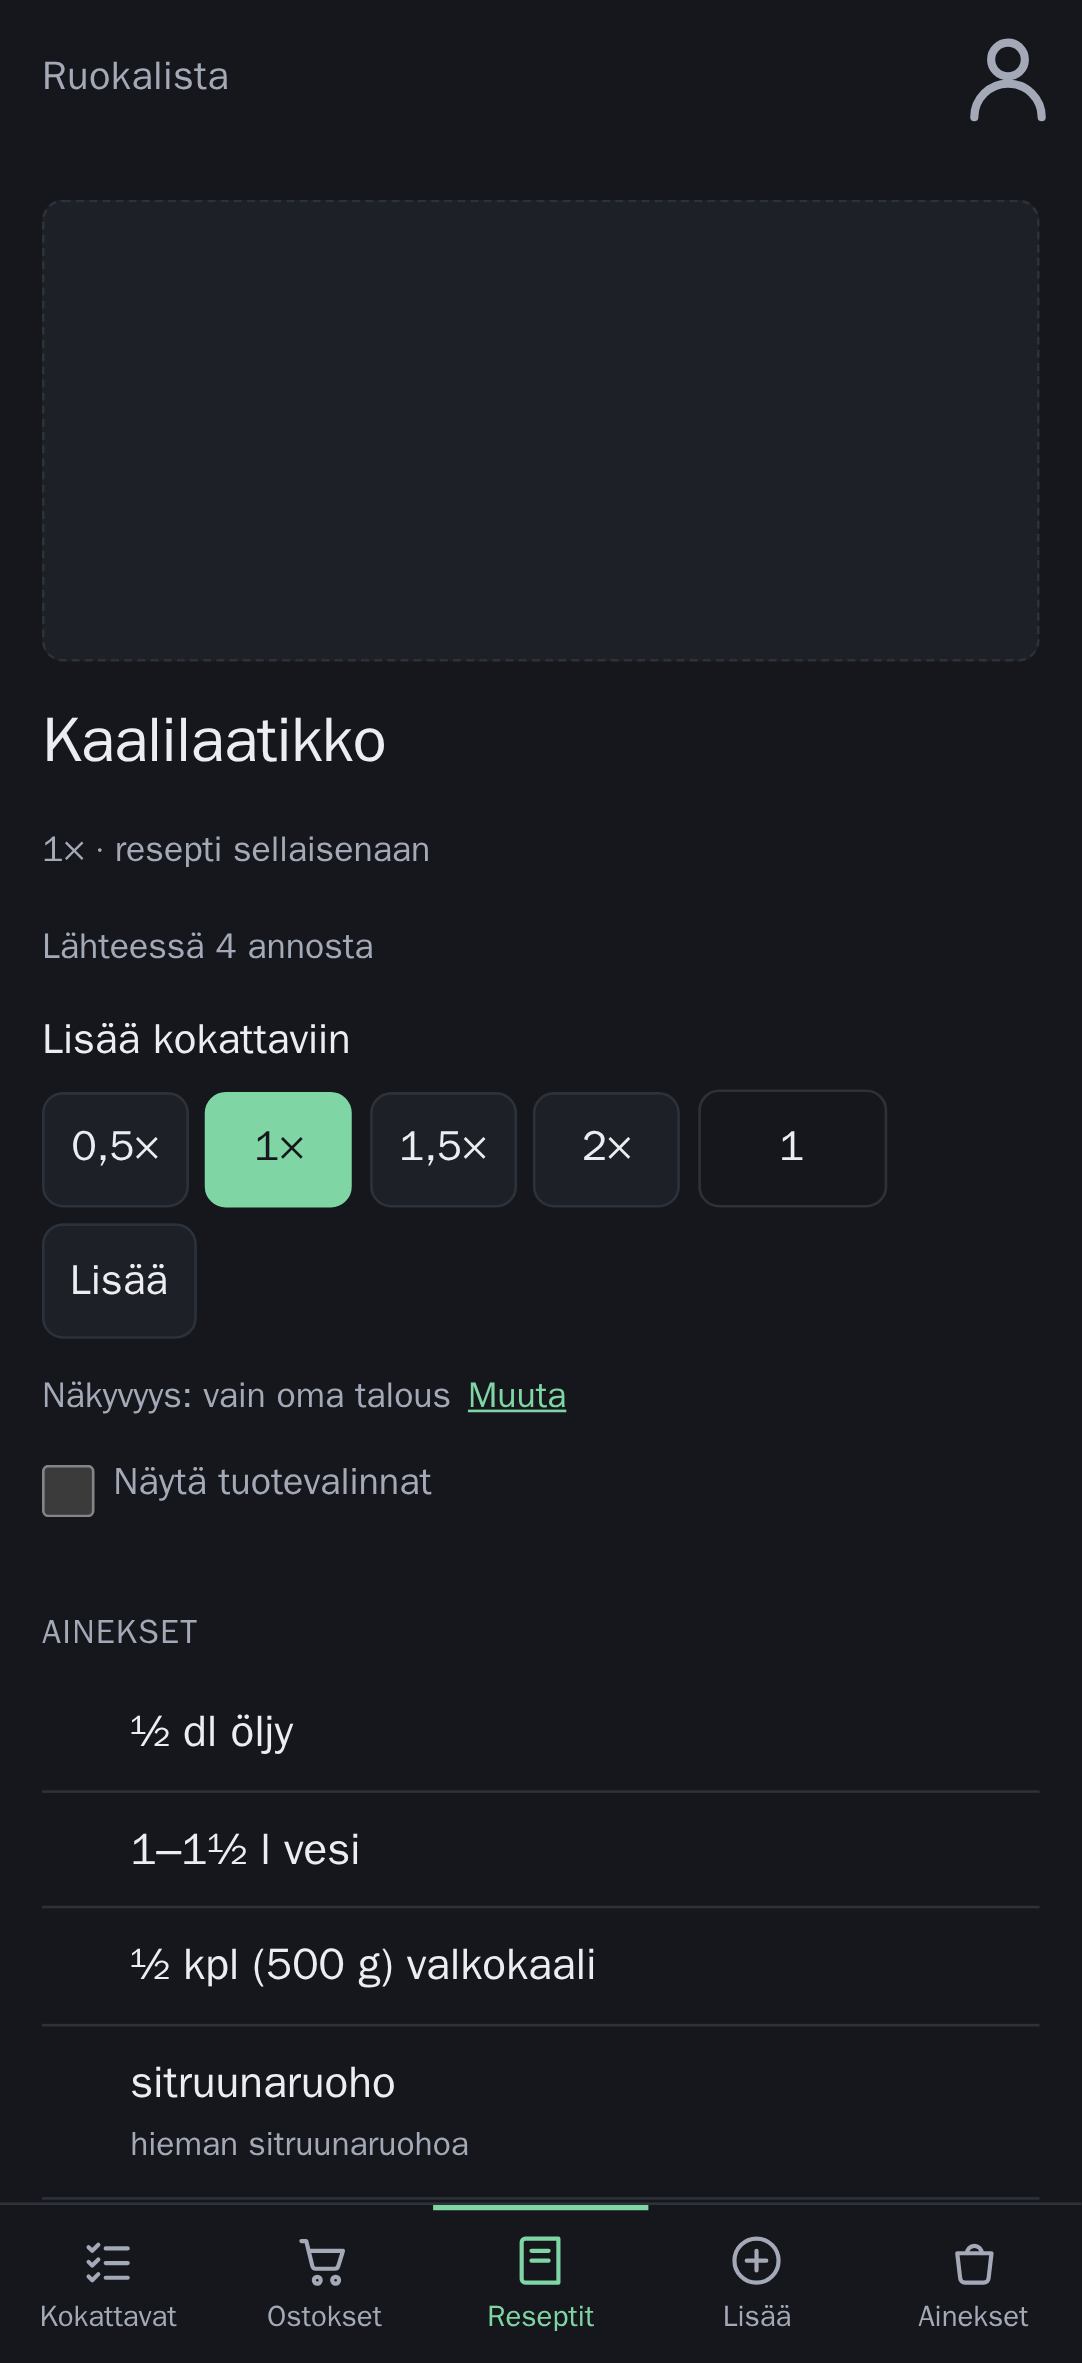
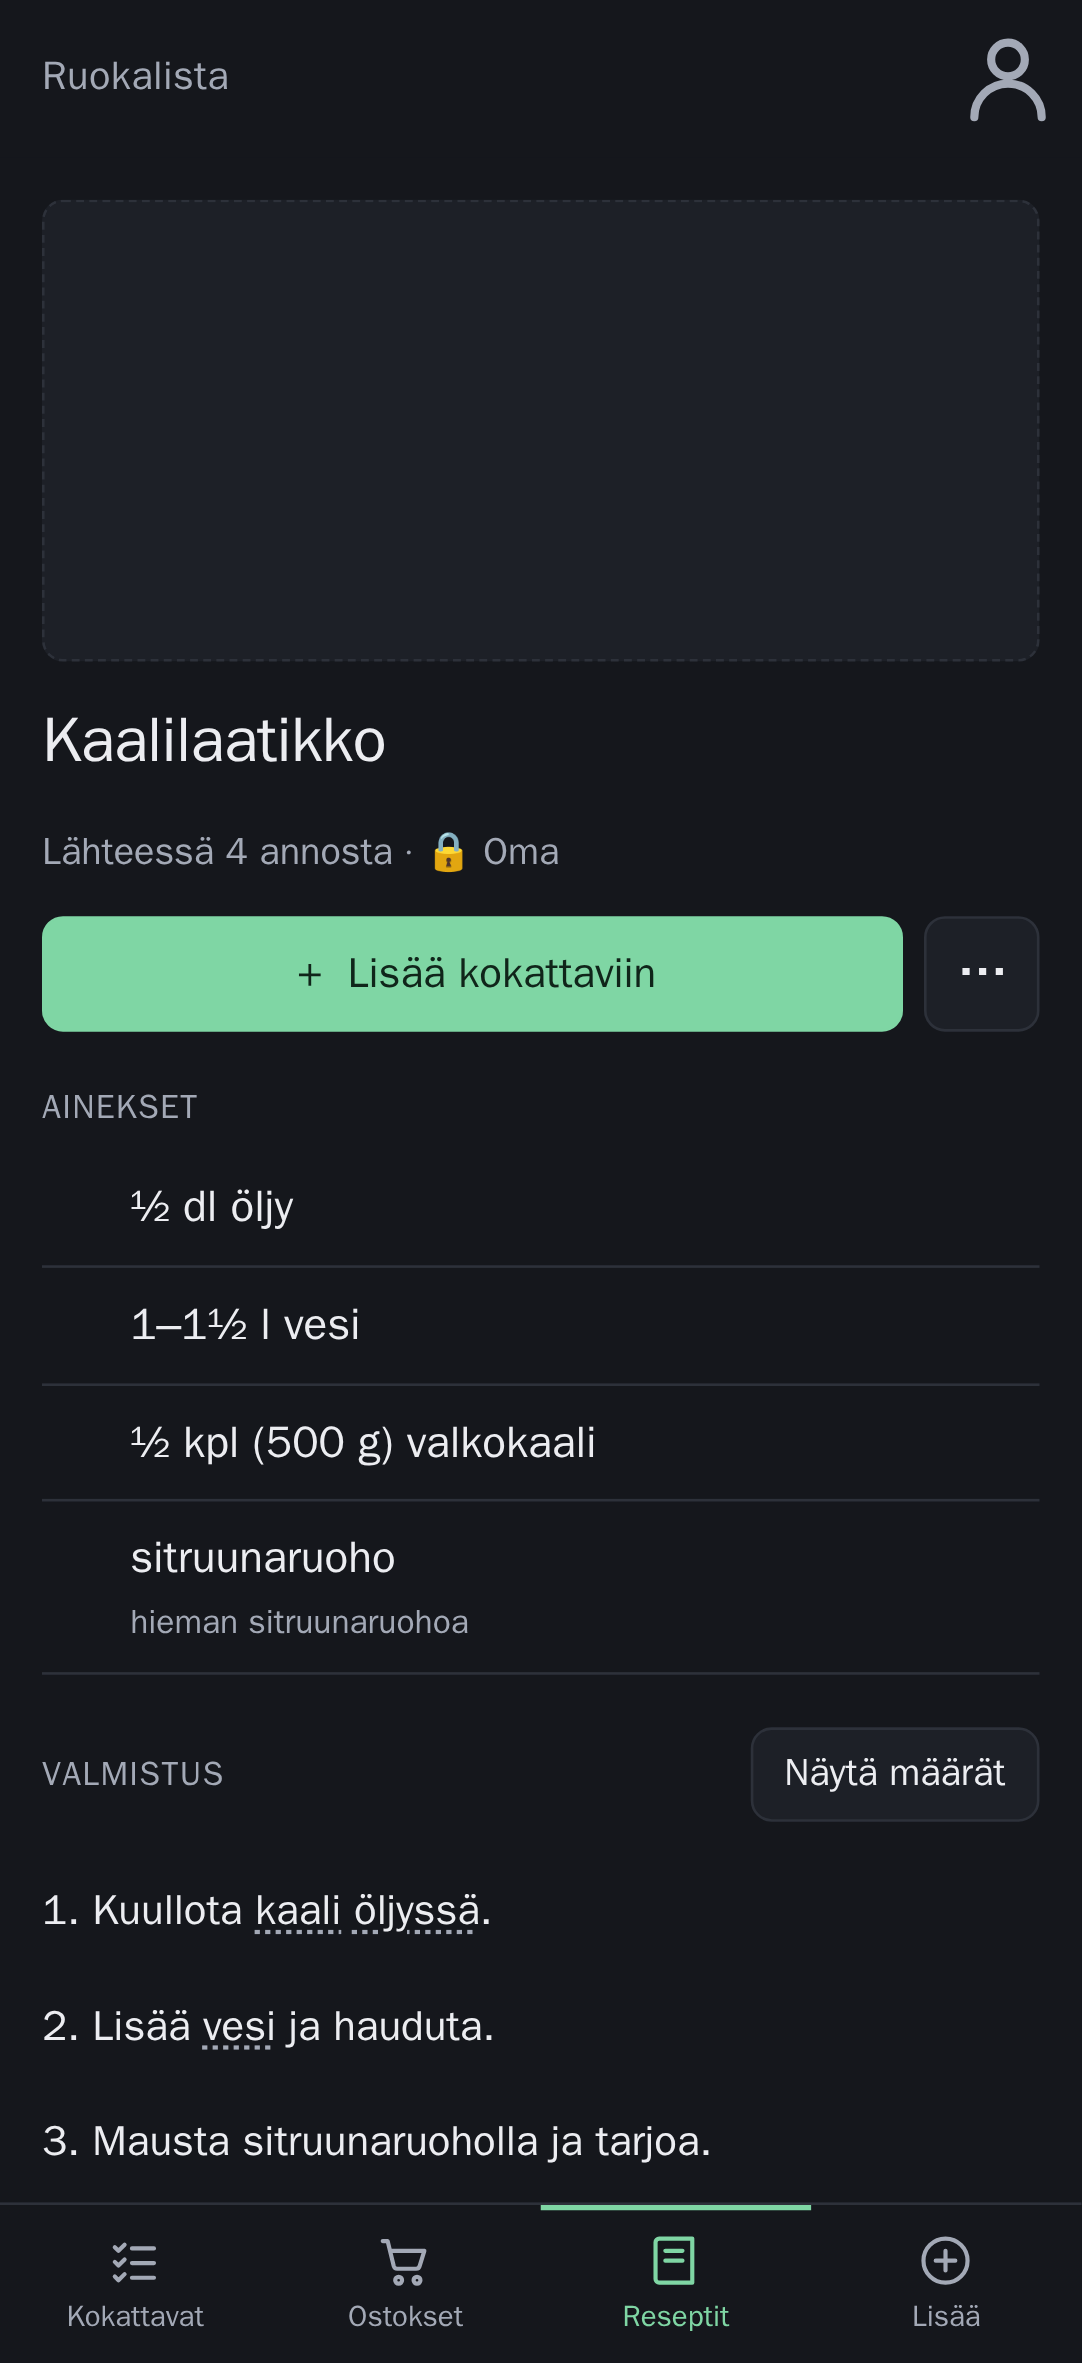
Dark-mode recipe screenshot after #354

diff --git a/docs/screenshots/README.md b/docs/screenshots/README.md
@@ -133,4 +133,4 @@ rasterised at the ratio that makes the file six inches wide at 96 dpi: looked at
 | `131-recipe-more.png` | The same recipe with **⋯** open (#354): **Lisää eri koolla**, **Meidän taloudessa** (Oletuskerroin, Jakaminen) and **Resepti** (Muokkaa reseptiä, Täydennä AI:lla, Alkuperäinen resepti) |
 | `132-recipe-add-size.png` | **Lisää eri koolla** open (#354): four size buttons that add at once, then **Muu kerroin** and **Lisää** |
 | `140-dark-recipes.png` | The recipe list on a phone set to dark mode (#355): the app takes the device's own setting, older iPads included |
-| `141-dark-recipe.png` | One recipe on a phone set to dark mode (#355): the picture placeholder, the size chips with the chosen one lit, and the ingredients |
+| `141-dark-recipe.png` | One recipe on a phone set to dark mode (#355): the picture placeholder, **＋ Lisää kokattaviin** and **⋯** (#354), and the ingredients |
